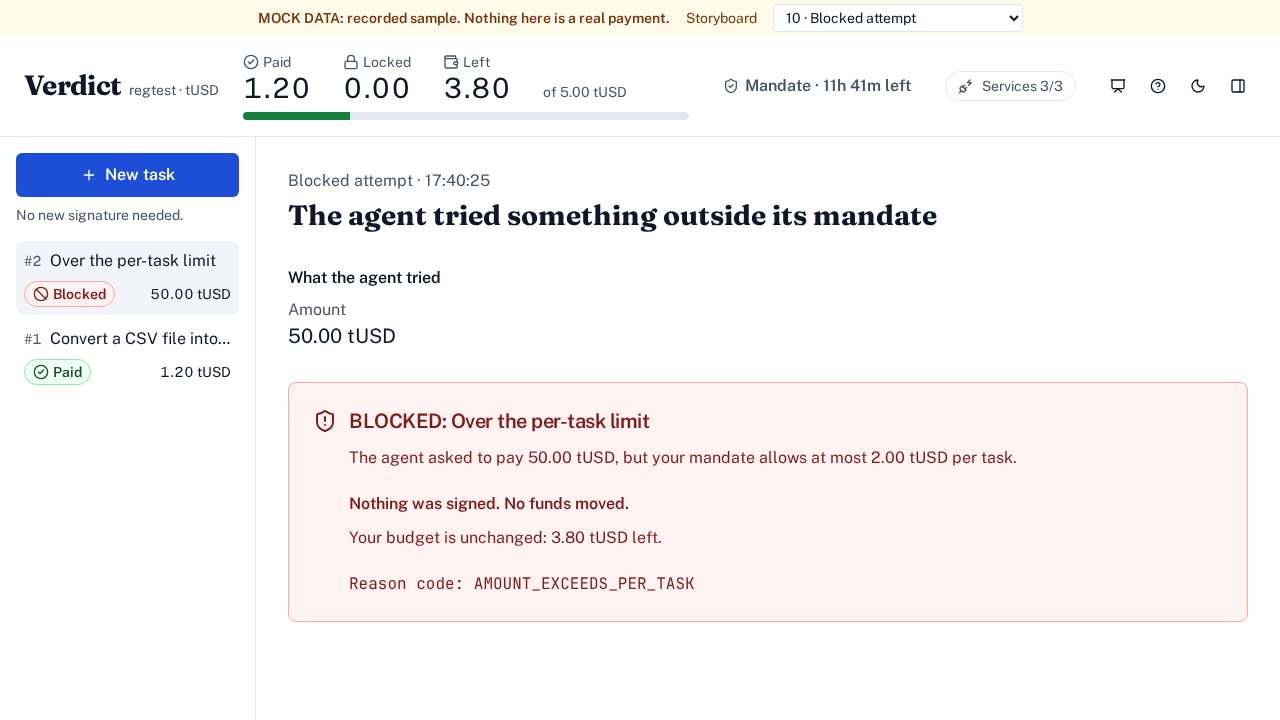
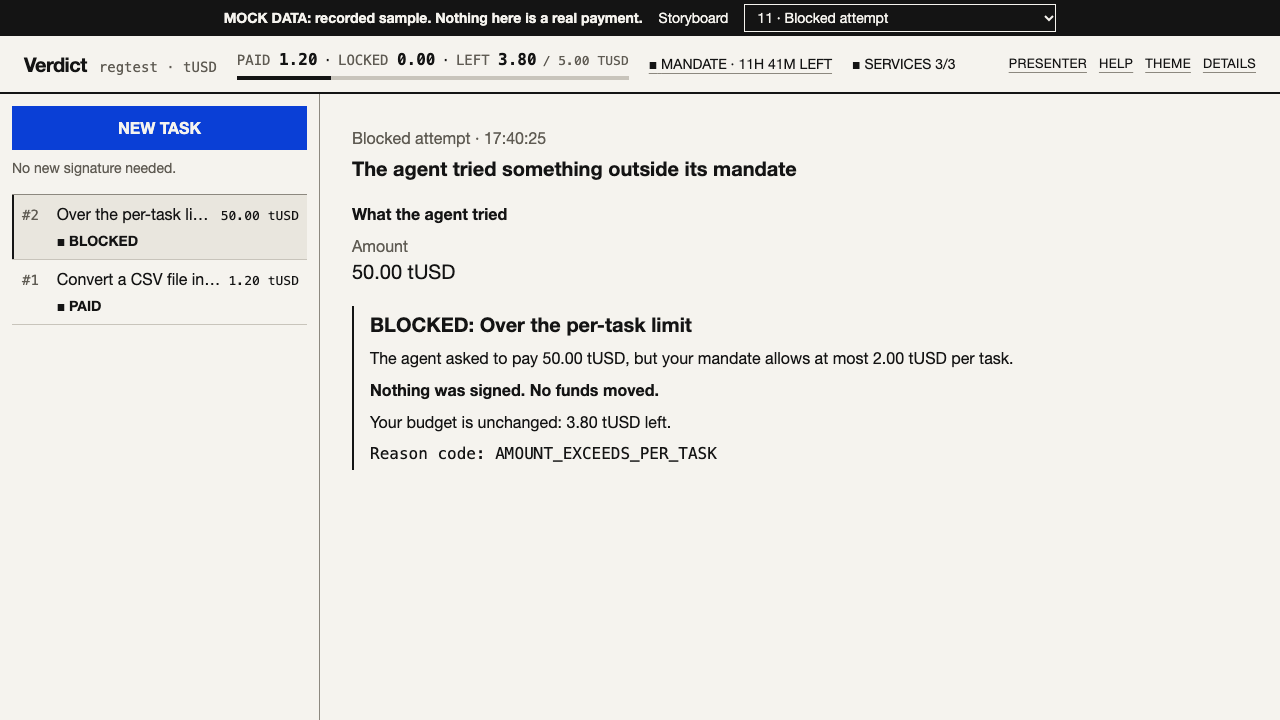
fix(ui): review fixes for the restyle; reference screenshots regenerated
Verifier check copy restored (passed/failed), wizard inner column no longer nests a second scroll region, shadow
tokens removed, glyphs limited to the directive set, network label visible at 1280, unused primitives and button
variants deleted, block notice is role=alert. docs/screenshots 01-08 now show the industrial UI (1280x720 light,
08 at 1280x640).

diff --git a/apps/demo-ui/src/components/MandateWizard.tsx b/apps/demo-ui/src/components/MandateWizard.tsx
@@ -44,7 +44,7 @@ function Stepper({ step }: { step: number }) {
           aria-current={i === step ? "step" : undefined}
           className={`flex items-baseline gap-x-3 uppercase ${i === step ? "font-semibold text-ink" : "text-subtle"}`}
         >
-          {i > 0 && <span aria-hidden>—</span>}
+          {i > 0 && <span aria-hidden>›</span>}
           <span>
             <span className="font-mono">{i + 1}</span> {label}
           </span>
@@ -257,7 +257,7 @@ function ReviewStep(props: {
             </Note>
           ))}
       </div>
-      <div className="sticky bottom-0 -mb-4 flex gap-3 border-t border-rule bg-paper py-4">
+      <div className="sticky bottom-0 -mb-6 flex gap-3 border-t border-rule bg-paper py-4">
         <Button type="button" variant="outline" onClick={props.onBack}>
           Back
         </Button>
@@ -315,7 +315,7 @@ export function MandateWizard(props: { open: boolean; onOpenChange: (open: boole
   };
   return (
     <Dialog open={props.open} onOpenChange={close}>
-      <DialogContent className="h-screen max-h-screen content-start gap-6 overflow-auto p-8 sm:max-w-3xl">
+      <DialogContent className="content-start gap-6">
         <div className="mx-auto grid w-full max-w-3xl gap-4">
           <header className="grid gap-3">
             <DialogTitle className="text-3xl font-semibold">Create mandate</DialogTitle>

diff --git a/apps/demo-ui/src/components/PaymentTimeline.tsx b/apps/demo-ui/src/components/PaymentTimeline.tsx
@@ -11,7 +11,7 @@ export const TIMELINE: { status: PaymentStatus; label: string }[] = [
 
 export const timeOf = (iso: string) => new Date(iso).toLocaleTimeString([], { hour12: false });
 
-/** Escrow history as one mono line: STATE time → STATE time. The last reached state is bold. */
+/** Escrow history as one mono line: STATE time › STATE time. The last reached state is bold. */
 export function Timeline({ history }: { history: PaymentStep[] }) {
   const at = (s: PaymentStatus) => history.find((h) => h.status === s)?.at;
   const failed = at("Failed");
@@ -33,7 +33,7 @@ export function Timeline({ history }: { history: PaymentStep[] }) {
             aria-current={isCur ? "step" : undefined}
             className={`flex items-baseline gap-x-2 ${when ? "text-ink" : ""} ${isCur ? "font-semibold" : ""}`}
           >
-            {i > 0 && <span aria-hidden>→</span>}
+            {i > 0 && <span aria-hidden>›</span>}
             <span>{r.label}</span>
             <span className="font-normal">{when ? timeOf(when) : "not yet"}</span>
           </li>

diff --git a/apps/demo-ui/src/components/ui/button.tsx b/apps/demo-ui/src/components/ui/button.tsx
@@ -9,21 +9,10 @@ const buttonVariants = cva(
     variants: {
       variant: {
         default: "border-primary bg-primary text-primary-foreground hover:bg-ink hover:border-ink",
-        destructive: "border-ink bg-ink text-paper hover:bg-paper hover:text-ink",
         outline: "border-ink bg-paper text-ink hover:bg-surface",
-        secondary: "border-rule bg-surface text-ink hover:border-ink",
-        ghost: "text-ink hover:bg-surface",
-        link: "text-ink underline underline-offset-4 hover:no-underline",
       },
       size: {
         default: "h-11 px-5 py-2",
-        xs: "h-7 gap-1 px-2 text-sm",
-        sm: "h-9 gap-1.5 px-3",
-        lg: "h-12 px-6",
-        icon: "size-11",
-        "icon-xs": "size-6",
-        "icon-sm": "size-9",
-        "icon-lg": "size-10",
       },
     },
     defaultVariants: {

diff --git a/apps/demo-ui/src/index.css b/apps/demo-ui/src/index.css
@@ -54,7 +54,7 @@
   --color-border: var(--rule-soft);
   --color-input: var(--rule);
   --color-ring: var(--ink);
-  /* Square everything, no shadows. */
+  /* Square everything. */
   --radius-xs: 0;
   --radius-sm: 0;
   --radius-md: 0;
@@ -62,13 +62,6 @@
   --radius-xl: 0;
   --radius-2xl: 0;
   --radius-3xl: 0;
-  --shadow-2xs: none;
-  --shadow-xs: none;
-  --shadow-sm: none;
-  --shadow-md: none;
-  --shadow-lg: none;
-  --shadow-xl: none;
-  --shadow-2xl: none;
   /* Two faces only. Plex is used when installed; the fallbacks are system faces, so nothing is fetched at runtime. */
   --font-sans: "IBM Plex Sans", "Helvetica Neue", Helvetica, Arial, sans-serif;
   --font-mono: "IBM Plex Mono", ui-monospace, Menlo, Consolas, "DejaVu Sans Mono", monospace;

diff --git a/apps/demo-ui/src/components/TopBar.tsx b/apps/demo-ui/src/components/TopBar.tsx
@@ -24,7 +24,7 @@ export function TopBar(props: {
     <header className="flex flex-nowrap items-center gap-x-5 border-b-2 border-ink bg-paper px-6 py-3 [.presenter_&]:gap-x-3">
       <div className="flex shrink-0 items-baseline gap-3">
         <h1 className="text-xl font-semibold tracking-tight">Verdict</h1>
-        <span className="hidden font-mono text-sm whitespace-nowrap text-subtle min-[1360px]:inline [.presenter_&]:hidden">
+        <span className="font-mono text-sm whitespace-nowrap text-subtle [.presenter_&]:hidden">
           regtest · tUSD
         </span>
       </div>

diff --git a/apps/demo-ui/src/components/BlockedScene.test.tsx b/apps/demo-ui/src/components/BlockedScene.test.tsx
@@ -67,7 +67,7 @@ describe("EmptyState and block notice", () => {
     const onDismiss = vi.fn();
     render(<BlockNotice onDismiss={onDismiss} />);
     expect(screen.getByText(BLOCK_NOTICE_TITLE)).toBeTruthy();
-    expect(screen.getByRole("status").textContent).toContain("No funds moved");
+    expect(screen.getByRole("alert").textContent).toContain("No funds moved");
     expect(BLOCK_NOTICE_BODY).toContain("Nothing was signed. No funds moved.");
     await userEvent.click(screen.getByRole("button", { name: "Dismiss" }));
     expect(onDismiss).toHaveBeenCalled();

diff --git a/apps/demo-ui/src/components/VerifierLane.tsx b/apps/demo-ui/src/components/VerifierLane.tsx
@@ -71,8 +71,7 @@ export function VerifierLane() {
                   {report.record.checks.map((c) => (
                     <li key={c.id}>
                       <span aria-hidden>{c.status === "PASS" ? "■" : "×"} </span>
-                      {c.id}{" "}
-                      <span className="font-semibold">{c.status === "PASS" ? "pass" : "fail"}</span>
+                      {c.id}: {c.status === "PASS" ? "passed" : "failed"}
                     </li>
                   ))}
                 </ul>

diff --git a/apps/demo-ui/src/components/BlockNotice.tsx b/apps/demo-ui/src/components/BlockNotice.tsx
@@ -8,7 +8,7 @@ export const BLOCK_NOTICE_BODY =
 /** In-place notice (no toast) shown when a request is refused and its Blocked row is not on screen. */
 export function BlockNotice(props: { onDismiss: () => void }) {
   return (
-    <Note title={BLOCK_NOTICE_TITLE} role="status">
+    <Note title={BLOCK_NOTICE_TITLE} role="alert">
       <p>{BLOCK_NOTICE_BODY}</p>
       <WordButton onClick={props.onDismiss} className="justify-self-start">
         Dismiss
